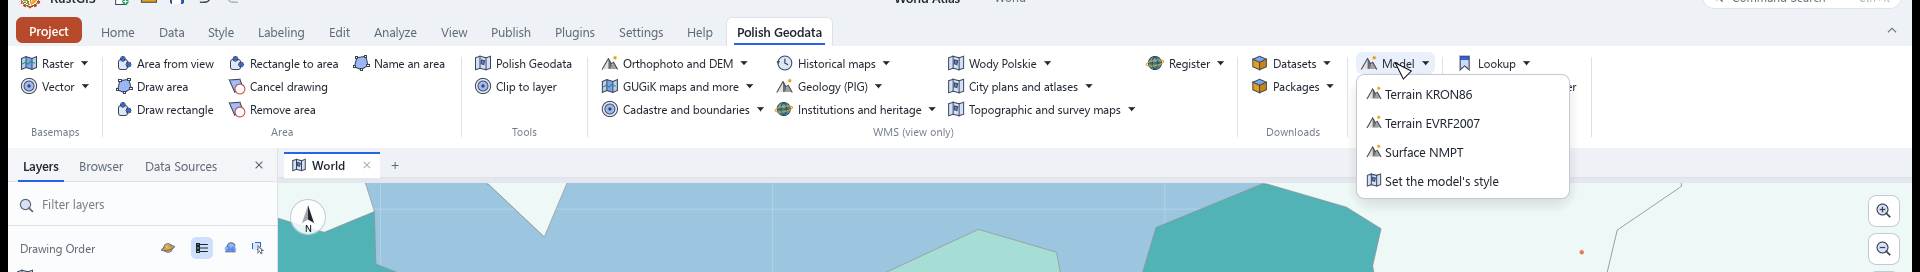
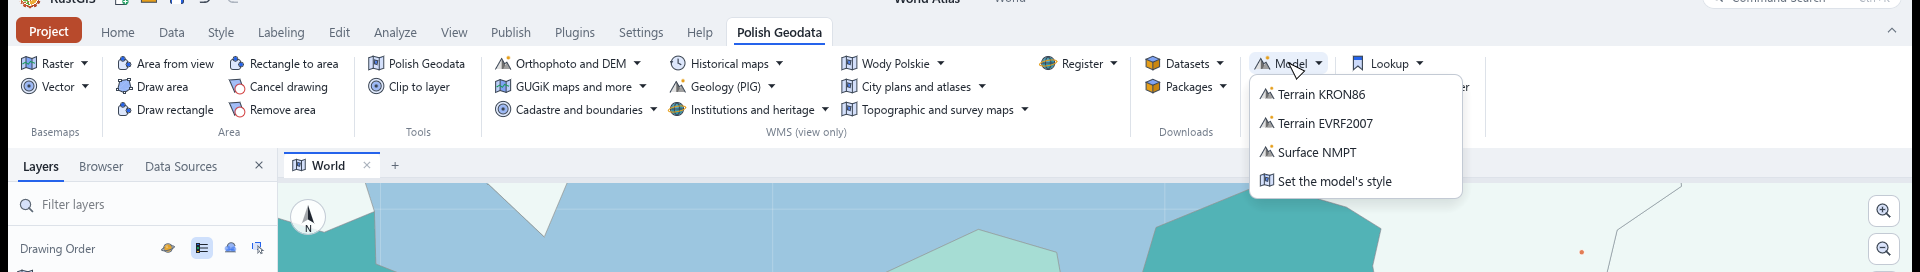
No ribbon button for keeping an area; the command stays for scripts
The Area group is back to six buttons. obszar-dodaj still copies the current area to Area 1, Area 2 for gp.batch, and the README and the skill name it as a script-only command.

diff --git a/README.md b/README.md
@@ -106,7 +106,7 @@ Every download needs an area layer. Five buttons make one, and three commands se
 | `obszar-json` | `{"bbox": [west, south, east, north]}` or `{"geojson": <Feature>}` |
 | `obszar-jednostka` | `{"nazwa": "Poznań", "poziom": "gmina"}` and optional `przytnij` |
 | `obreby` | `{"teryt": "306401_1"}`, the obręby a unit publishes |
-| `obszar-dodaj` | keeps the current area as its own layer, Area 1, Area 2, or takes `{"nazwa": "Gmina A", "bbox": […]}` |
+| `obszar-dodaj` | a script only: keeps the current area as Area 1, Area 2, or takes `{"nazwa": "Gmina A", "bbox": […]}` |
 
 `poziom` accepts `gmina`, `powiat`, `wojewodztwo`, `obreb` or `miasto`. A city that PRG lists only
 as a gmina falls back to its gmina boundary. `przytnij` cuts a named layer to that unit in the same
@@ -136,8 +136,8 @@ stops before the first page.
 The WFS filter returns whole features that touch the area. **Clip to layer** cuts them with the
 built-in Clip and replaces the layer with the result.
 
-**Batch over several areas.** Make an area with any button, press **Keep the area**, make the next one,
-press it again. Each press keeps a copy as Area 1, Area 2, and one download then runs over all of them: `gp.batch {"tool": "plugin:polish-geodata/pobierz-granice", "inputs": ["Gmina A", "Gmina B"],
+**Batch over several areas.** The command `obszar-dodaj` keeps the current area as Area 1, then Area 2,
+and one download runs over all of them: `gp.batch {"tool": "plugin:polish-geodata/pobierz-granice", "inputs": ["Gmina A", "Gmina B"],
 "params": {"dane": "A03_Granice_gmin"}}` adds one layer per area, in one background run with progress
 and Cancel.
 

diff --git a/skills/polish-geodata/SKILL.md b/skills/polish-geodata/SKILL.md
@@ -31,15 +31,15 @@ Every download takes an area layer, a polygon layer on the map. The layer is "Ar
 | `obszar-przejmij` | moves that graphic into the area layer |
 | `obszar-anuluj` | drops a pending drawing |
 | `obszar-wyczysc` | removes the area layer |
-| `obszar-dodaj` | copies the current area to Area 1, Area 2, or takes `{"nazwa": "Gmina A", "bbox": [w, s, e, n]}` |
+| `obszar-dodaj` | copies the current area to Area 1, Area 2, or takes `{"nazwa": "Gmina A", "bbox": [w, s, e, n]}`; no ribbon button |
 
 A city that PRG lists only as a gmina falls back to its gmina boundary. An inverted or short box is
 refused with the shape the command wants.
 
 ## Batch over several areas
 
-`obszar-dodaj` copies the current area to a layer of its own (Area 1, Area 2), so several areas stand
-side by side. `gp.batch` then runs one download tool over all of them:
+`obszar-dodaj` has no ribbon button; a script or the assistant calls it to copy the current area to a
+layer of its own (Area 1, Area 2). `gp.batch` then runs one download tool over all of them:
 
 ```text
 run_tool  gp.batch  {"tool": "plugin:polish-geodata/pobierz-granice", "inputs": ["Gmina A", "Gmina B"], "params": {"dane": "A03_Granice_gmin"}}
